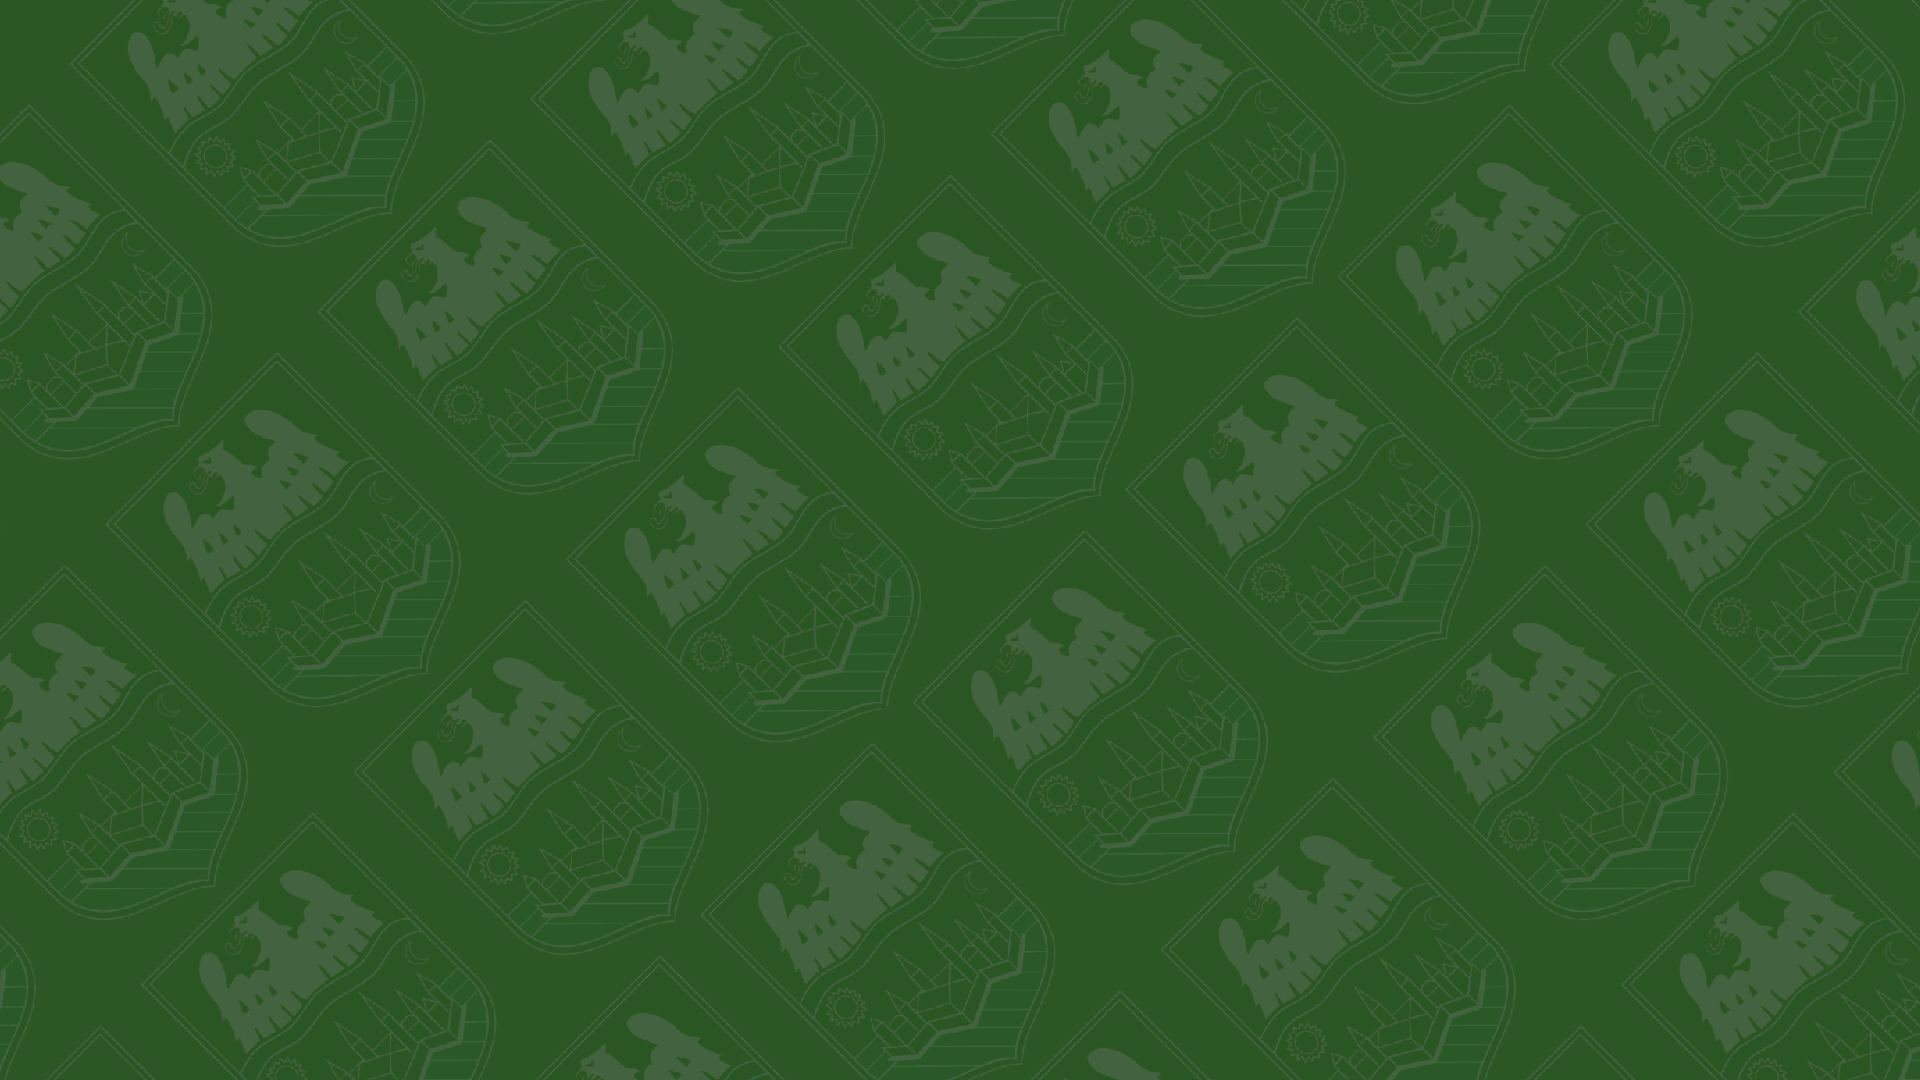
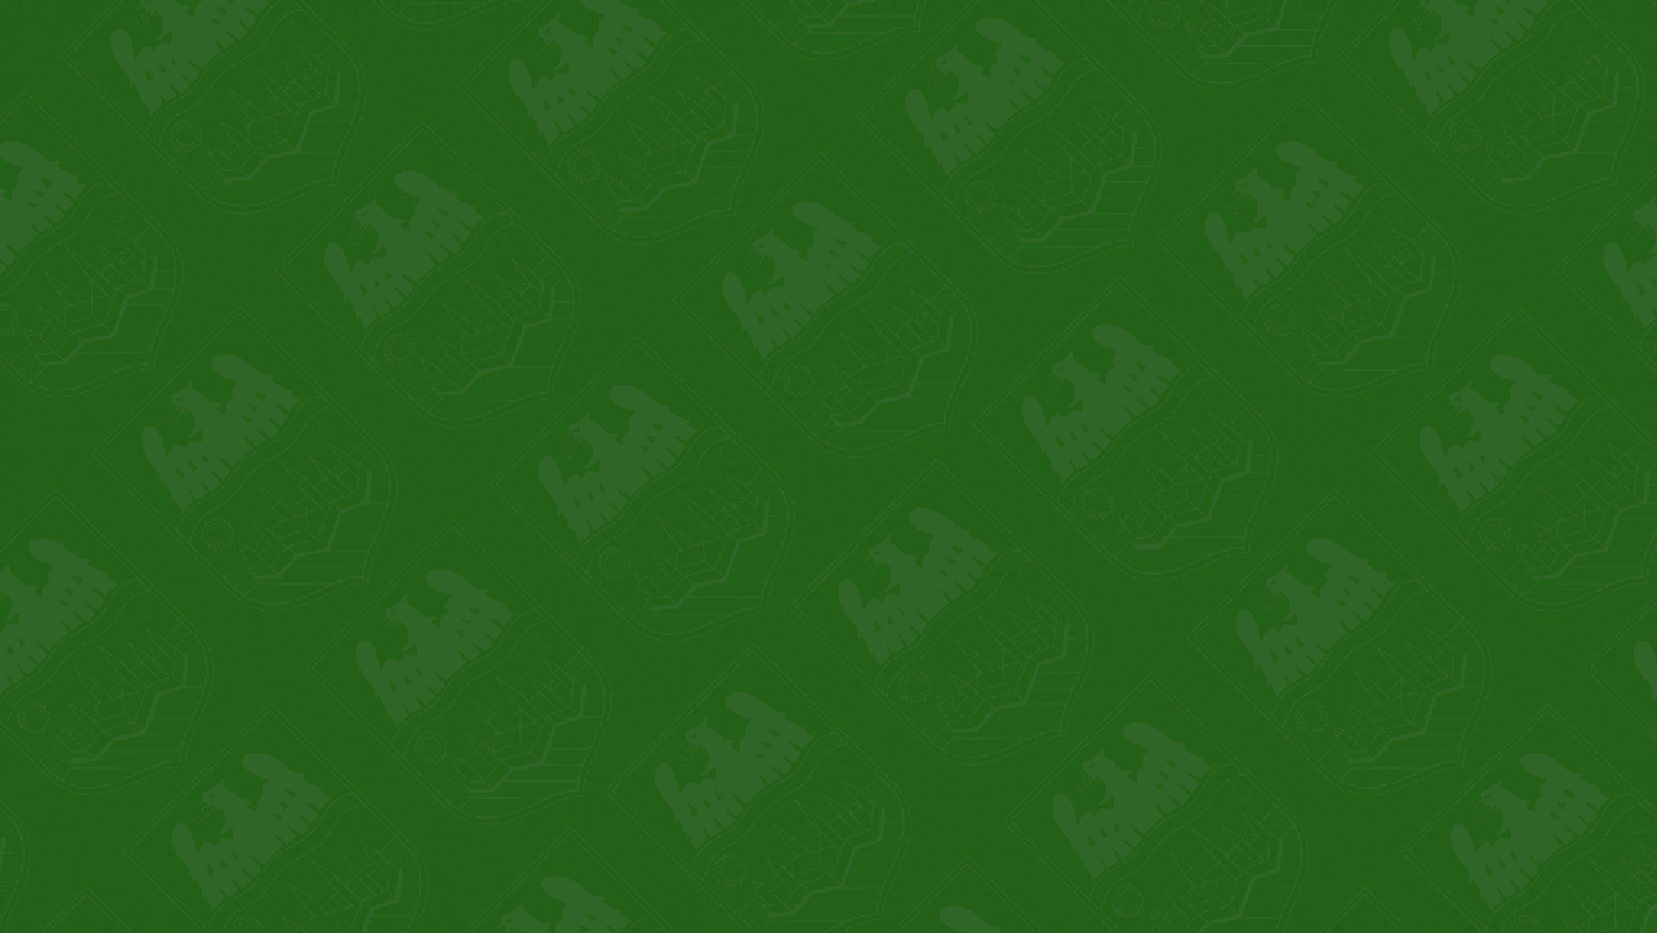
BG

diff --git a/fuchs-game/src/App.js b/fuchs-game/src/App.js
@@ -1,6 +1,7 @@
 import React, { useState, useEffect, useCallback, useMemo } from 'react';
 import { motion, AnimatePresence } from 'framer-motion';
 import './App.css';
+import Background from './images/donaubg.png';
 
 // --- Constants & Data ---
 //const SUITS = ['Eichel', 'Grun', 'Rot', 'Schelle'];
@@ -336,7 +337,7 @@ export default function FuchsGame() {
     }, [gameState.phase, gameState.wonTricks, gameState.teams]);
 
     return (
-        <div className="game-wrapper">
+        <div className="game-wrapper" style={{backgroundImage: `url(${Background})`}}>
             {gameState.phase === 'menu' && (
                 <div className="overlay">
                     <motion.div initial={{ scale: 0.8 }} animate={{ scale: 1 }} className="menu-card">
